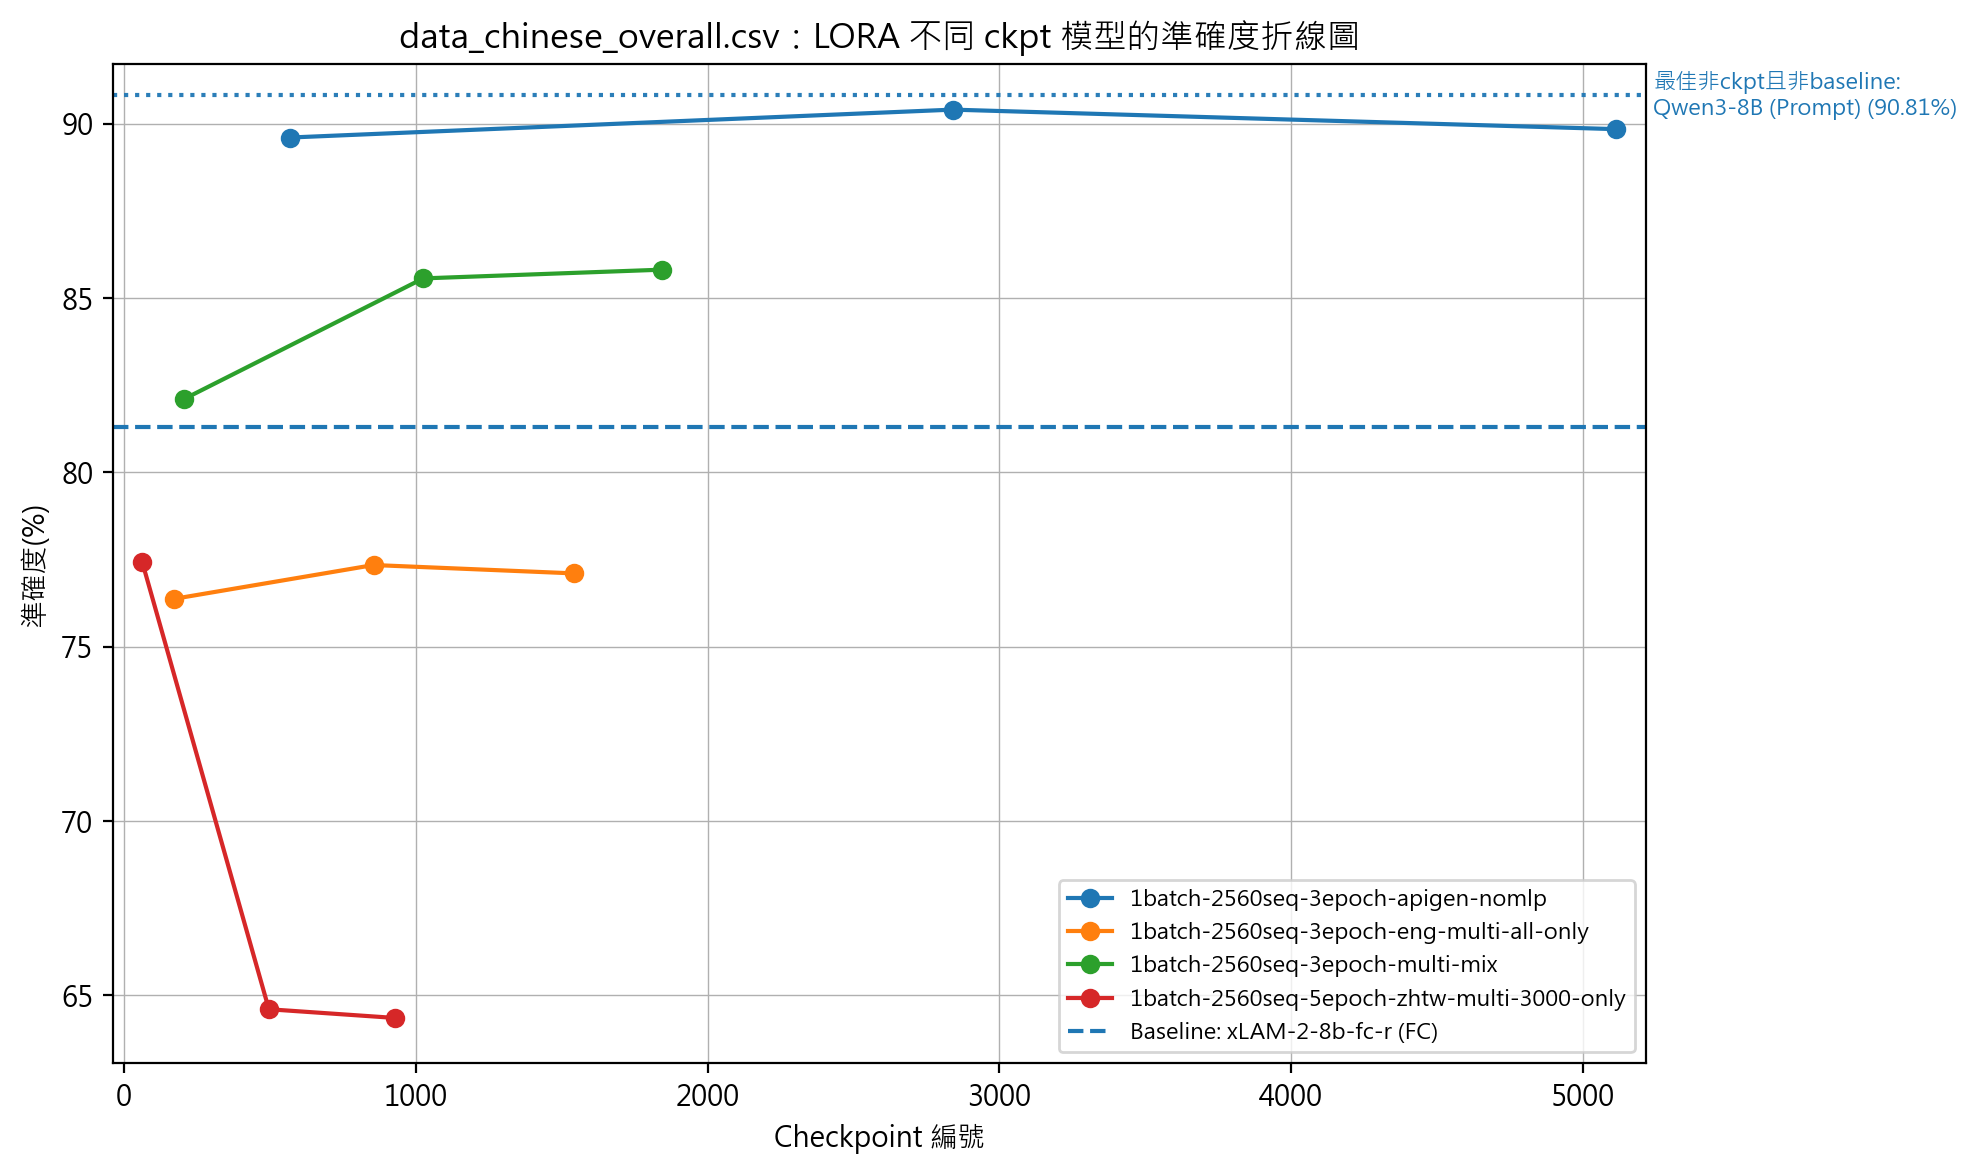
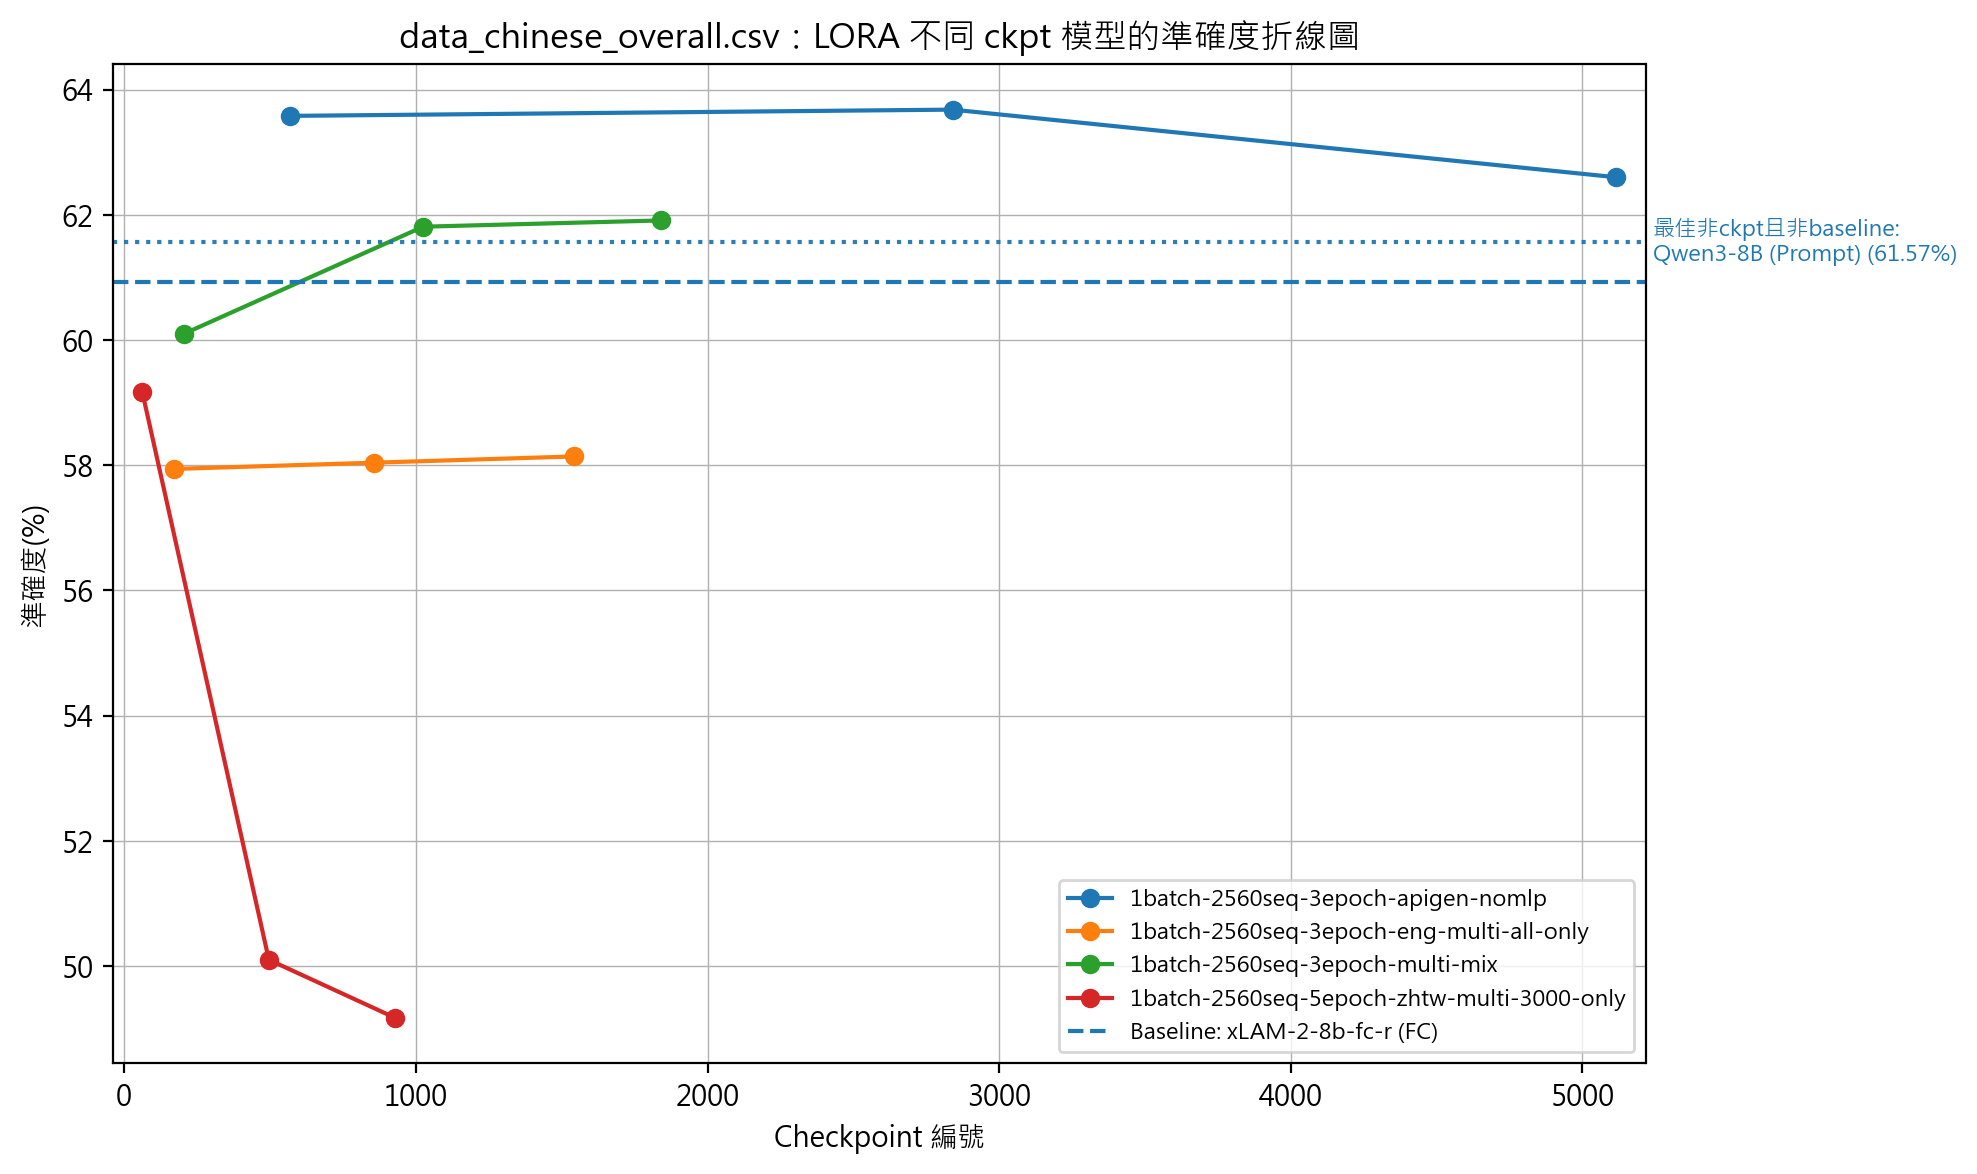
新增整體準確度欄位候選：加入「Overall (ZH) Acc」並更新圖檔

diff --git a/berkeley-function-call-leaderboard/plot_ckpt_lora.py b/berkeley-function-call-leaderboard/plot_ckpt_lora.py
@@ -44,13 +44,13 @@ TARGET_FILES = [
 # 可能的整體準確度欄位名稱候選（會依序嘗試）
 ACC_COL_CANDIDATES = [
     "Overall Acc",
+    "Overall (ZH) Acc",
     "Live Overall Acc",
     "Non-Live Overall Acc",
     "Multi Turn Overall Acc",
     "AST (ZH) Summary",
     "AST Summary",
     "Multi Turn (ZH) Overall Acc",
-    "AST (ZH) Summary",
 ]
 
 # 解析 ckpt 的正則：抓出 ckpt 數字與後綴超參數字串
